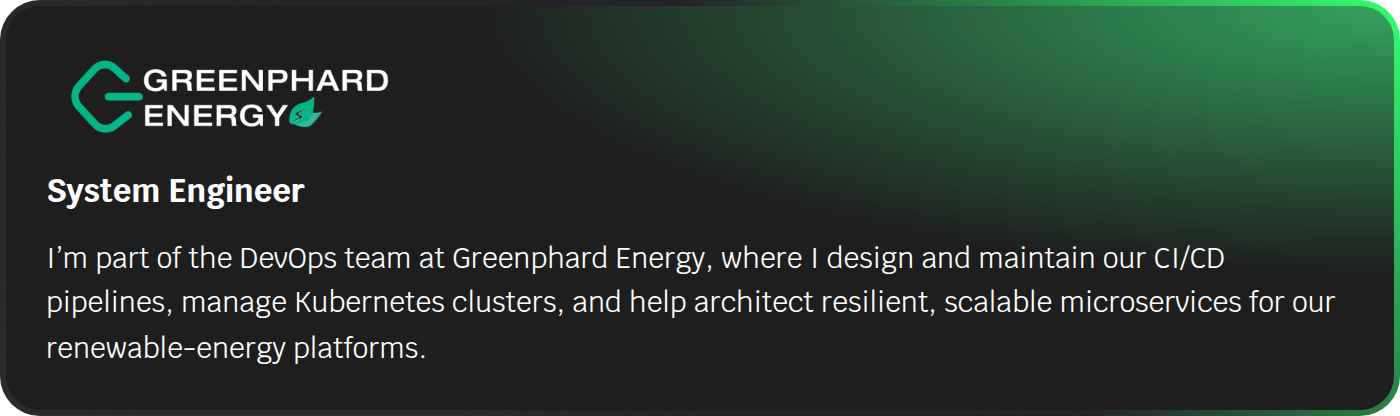
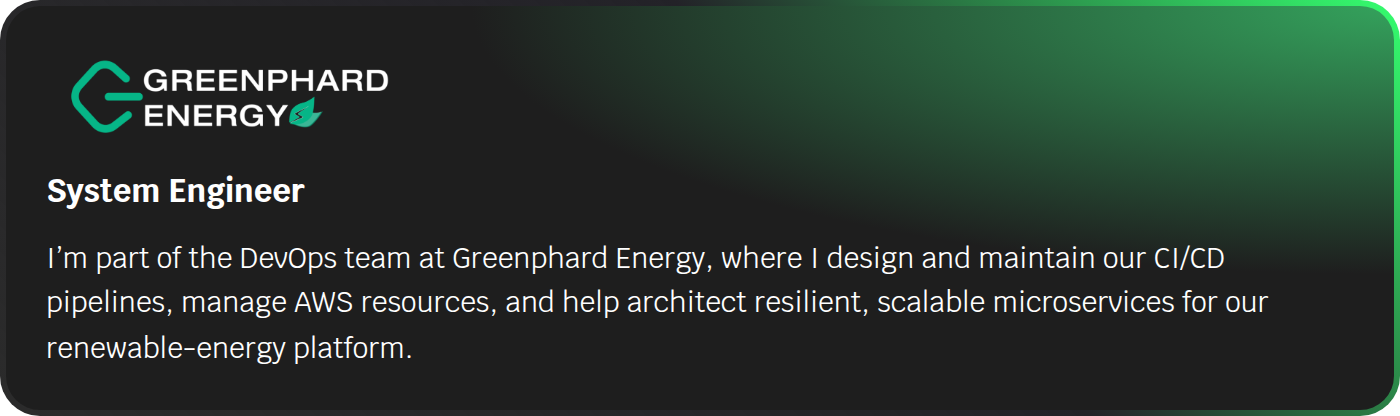
Update README and green card content for clarity and accuracy

Changed region(s): [[0.1843, 0.6875, 0.9521, 0.75], [0.2764, 0.8125, 0.3071, 0.875]]

diff --git a/assets/html/card-green.html b/assets/html/card-green.html
@@ -77,7 +77,7 @@
     <h4>System Engineer</h4>
     <p>
       I’m part of the DevOps team at Greenphard Energy, where I design and maintain our CI/CD pipelines,
-      manage Kubernetes clusters, and help architect resilient, scalable microservices for our renewable-energy platforms.
+      manage AWS resources, and help architect resilient, scalable microservices for our renewable-energy platform.
     </p>
   </div>
 

diff --git a/Readme.md b/Readme.md
@@ -8,7 +8,6 @@
         <!-- top section: About Me -->
         <div>
           <h2>👨💻 About Me</h2>
-          <hr style="border:0;height:1px;background:#ccc;margin:4px 0 12px;" />
           <p>
             I’m a <strong>System Engineer &amp; Fullstack Developer</strong><br>
             with a passion for building robust, scalable applications and optimizing system architecture.<br>
